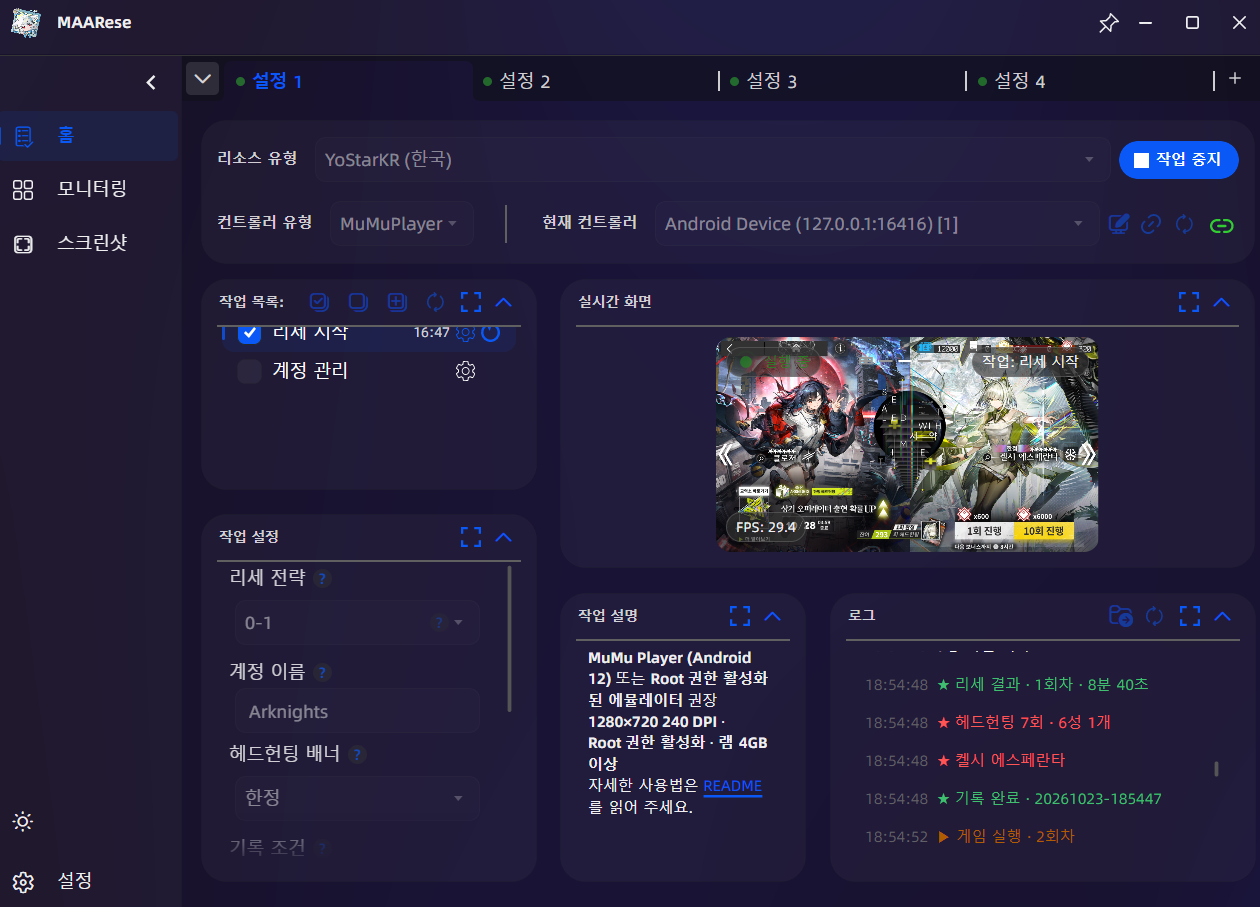
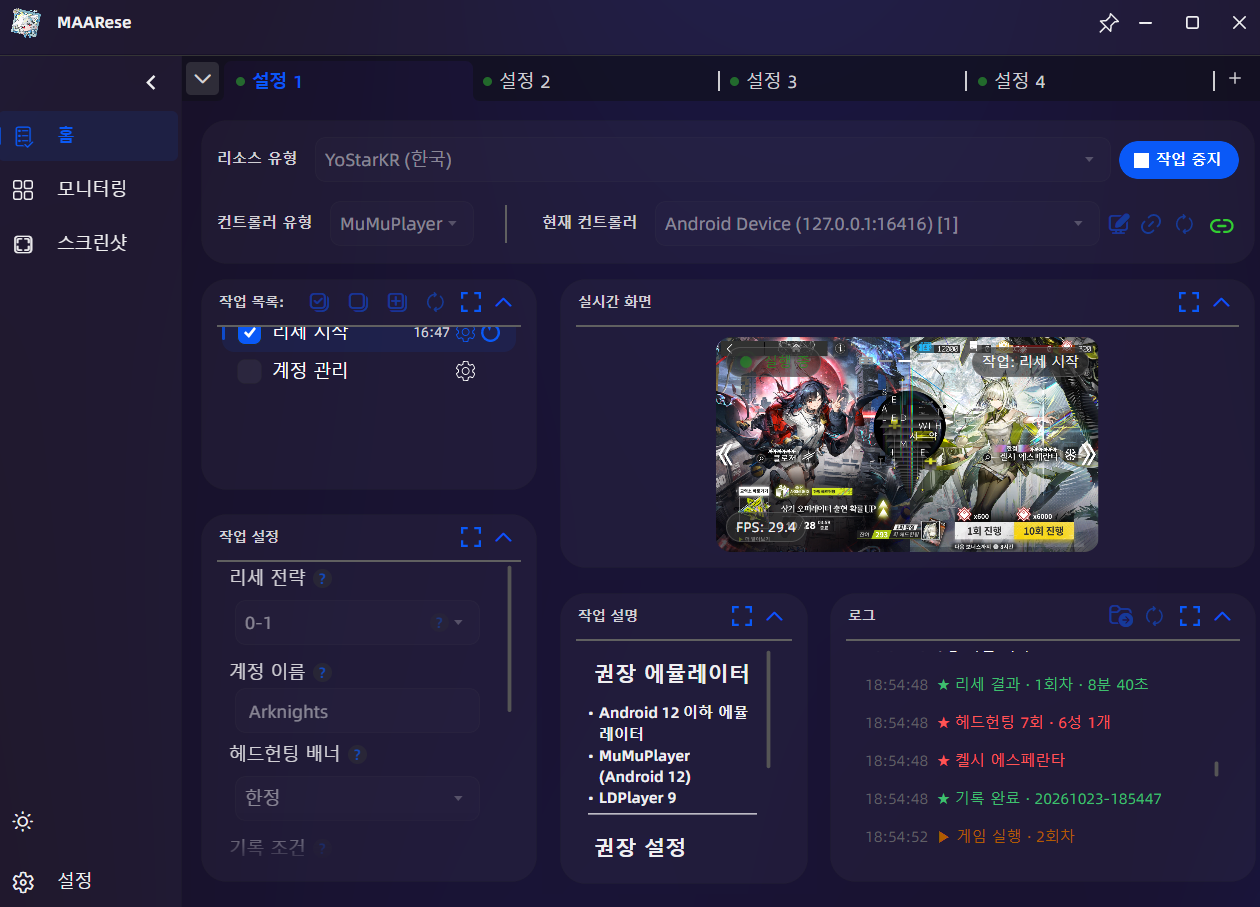
docs: update README and description

Changed region(s): [[0.4643, 0.71, 0.619, 0.8953], [0.4643, 0.9261, 0.5571, 0.957]]

diff --git a/README.md b/README.md
@@ -1,16 +1,17 @@
 # MAARese
 
-명일방주 한국 서버의 리세를 자동으로 반복하는 도구입니다.  
-[MaaFramework](https://github.com/MaaXYZ/MaaFramework)로 화면을 인식/조작하며, GUI는 [MFAAvalonia](https://github.com/MaaXYZ/MFAAvalonia), OCR 모델은 [MaaCommonAssets](https://github.com/MaaXYZ/MaaCommonAssets)를 사용합니다.
+명일방주 한국 서버의 리세를 자동으로 반복하는 도구입니다.
 
 ## 설치
 
 > [!IMPORTANT]
 > 실행하기 전에 아래 조건을 모두 갖춰 주세요.
 >
-> - MuMu Player (Android 12) 또는 Root 권한 활성화된 에뮬레이터
-> - 에뮬레이터 설정: 해상도 **1280×720 240 DPI** · **Root 권한 활성화** · **램 4GB 이상**
+> - **Android 12 이하 에뮬레이터**
+> - 에뮬레이터 설정 **1280×720 240 DPI** · **Root 권한 활성화** · **ADB 활성화** · **램 4GB 이상**
 > - 리소스와 음성 다운로드를 마치고, 타이틀 화면(START)까지 들어가 본 명일방주 클라이언트
+
+에뮬레이터는 **MuMuPlayer (Android 12)** 또는 **LDPlayer 9**을 권장합니다
 
 구글/YoStar 계정이 로그인되어 있다면 **로그아웃을 권장**합니다.  
 로그인된 상태에서도 동작은 하지만, 진행 시간이 더 오래 걸리고 불안정할 수 있습니다.
@@ -22,8 +23,7 @@
 ## 리세 시작
 
 > [!TIP]
-> MFAAvalonia 상단 탭의 `+`로 인스턴스를 늘리면 **동시에 여러 에뮬레이터**를 돌릴 수 있습니다.  
-> \+ 비공식 한국어 번역이 적용되어 있습니다.
+> MFAAvalonia 상단 탭의 `+`로 인스턴스를 늘리면 **동시에 여러 에뮬레이터**를 돌릴 수 있습니다.
 
 <p>
   <img src="docs/images/avalonia-home.png" alt="MFAAvalonia 홈" width="49%">
@@ -34,11 +34,11 @@
 
 <div align="center">
 
-|     전략     | 진행                                                                                  |               헤드헌팅               |
-| :----------: | :------------------------------------------------------------------------------------ | :----------------------------------: |
-|   **0-1**    | 0-1 퇴각 후 헤드헌팅                                                                  |           6+1회 · 7분 이내           |
-| **0-1 연장** | 0-1 퇴각 후 헤드헌팅<br>6성이 **진행 조건** 이상이면 0-11 클리어 후 한 번 더 헤드헌팅 | 6+1회 · 7분 이내<br>25회 · 40분 이내 |
-|   **0-11**   | 0-11 클리어 후 헤드헌팅                                                               |          24+1회 · 40분 이내          |
+|     전략     | 진행                                                                              |               헤드헌팅               |
+| :----------: | :-------------------------------------------------------------------------------- | :----------------------------------: |
+|   **0-1**    | 0-1 퇴각 후 헤드헌팅                                                              |           6+1회 · 7분 이내           |
+| **0-1 연장** | 0-1 퇴각 후 헤드헌팅<br>**진행 조건**을 충족하면 0-11 클리어 후 한 번 더 헤드헌팅 | 6+1회 · 7분 이내<br>25회 · 40분 이내 |
+|   **0-11**   | 0-11 클리어 후 헤드헌팅                                                           |          24+1회 · 40분 이내          |
 
 </div>
 
@@ -59,8 +59,8 @@
 
 ### 한정 배너 교체
 
-헤드헌팅 화면에서 한정 배너는 **1회 보너스**나 배너 템플릿 `resource/image/LimitedBanner.png`로 알아봅니다.  
-**1회 보너스**가 없는데 업데이트가 늦거나 끊겼다면, 다음 순서로 템플릿을 직접 바꿔 쓸 수 있습니다.
+헤드헌팅 화면에서 한정 배너는 **1회 보너스** 또는 배너 템플릿 `resource/image/LimitedBanner.png`로 알아봅니다.  
+**1회 보너스**가 없는 배너인데 업데이트가 늦거나 끊겼다면, 다음 순서로 템플릿을 직접 바꿔 쓸 수 있습니다.
 
 1. 에뮬레이터(1280×720)에서 헤드헌팅 화면에 새 한정 배너를 띄우고 스크린샷을 찍습니다.
 2. roi `[440, 130, 400, 350]` 안에서 배너의 특징적인 그림(로고 등)을 잘라냅니다.
@@ -78,7 +78,8 @@
 
 ### 기록 폴더
 
-기록한 계정은 `MFAAvalonia.exe`가 있는 폴더의 `accounts` 아래에 저장됩니다. 스크린샷은 6성 개수별 폴더에, 계정 데이터는 `_shared_prefs`에 들어갑니다.
+기록한 계정은 `MFAAvalonia.exe`가 있는 폴더의 `accounts` 에 저장됩니다.  
+스크린샷은 6성 개수별 폴더에, 계정 데이터는 `_shared_prefs`에 들어갑니다.
 
 ```
 accounts/
@@ -92,7 +93,7 @@ accounts/
 
 ### 실행 로그
 
-회차마다 처음에 `▶ 게임 실행 · N회차`가 나옵니다. 헤드헌팅이 끝나면 아래처럼 결과가 나오고, 6성 개수와 이름은 빨간색입니다.
+회차마다 처음에 `▶ 게임 실행 · N회차`가 나오고, 헤드헌팅이 끝나면 아래처럼 결과가 나옵니다.
 
 ```text
 ★ 리세 결과 · 1회차 · 7분 0초
@@ -103,7 +104,7 @@ accounts/
 
 계정을 기록하지 않았으면 마지막 줄이 `★ 기록 없음 · 조건 미달`입니다.
 
-작업이 실패하거나 **타임아웃**만큼 멈추면 `⚠ …`이 나오고 리세를 처음부터 다시 시작합니다.
+문제가 발생해 멈추면 `⚠ …`이 나오고 리세를 처음부터 다시 시작합니다.
 
 ## 계정 관리
 
@@ -111,12 +112,16 @@ accounts/
 
 ### 불러오기
 
-**리세 시작**으로 기록한 계정을 불러옵니다. **불러올 계정**에 스크린샷 파일 이름 앞의 시간(예: `20261010-000000`)을 입력하세요. 비워 두면 지금 실행 중인 MFAAvalonia에서 가장 최근에 기록한 계정을 불러옵니다.
+**불러올 계정**에 스크린샷 파일 이름 앞의 시간(예: `20261010-000000`)을 입력하세요.  
+비워 두면 지금 실행 중인 MFAAvalonia에서 가장 최근에 기록한 계정을 불러옵니다.
 
 ### 기록하기
 
 오퍼레이터 목록 화면에서 실행하세요. 6성을 확인한 뒤 계정을 `accounts`에 기록합니다.
 
-## 업데이트
+## 기반 프로젝트
 
-MFAAvalonia는 시작할 때 이 프로젝트의 GitHub 릴리스를 확인합니다. MFAAvalonia 설정의 업데이트 항목에서 자동 업데이트를 켜면 새 버전을 받아 적용하고, 켜지 않으면 알림만 표시합니다.
+Framework - [MaaFramework](https://github.com/MaaXYZ/MaaFramework)  
+GUI - [MFAAvalonia](https://github.com/MaaXYZ/MFAAvalonia)  
+OCR - [MaaCommonAssets](https://github.com/MaaXYZ/MaaCommonAssets)  
+Gamedata - [ArknightsGamedata](https://github.com/ArknightsAssets/ArknightsGamedata)
